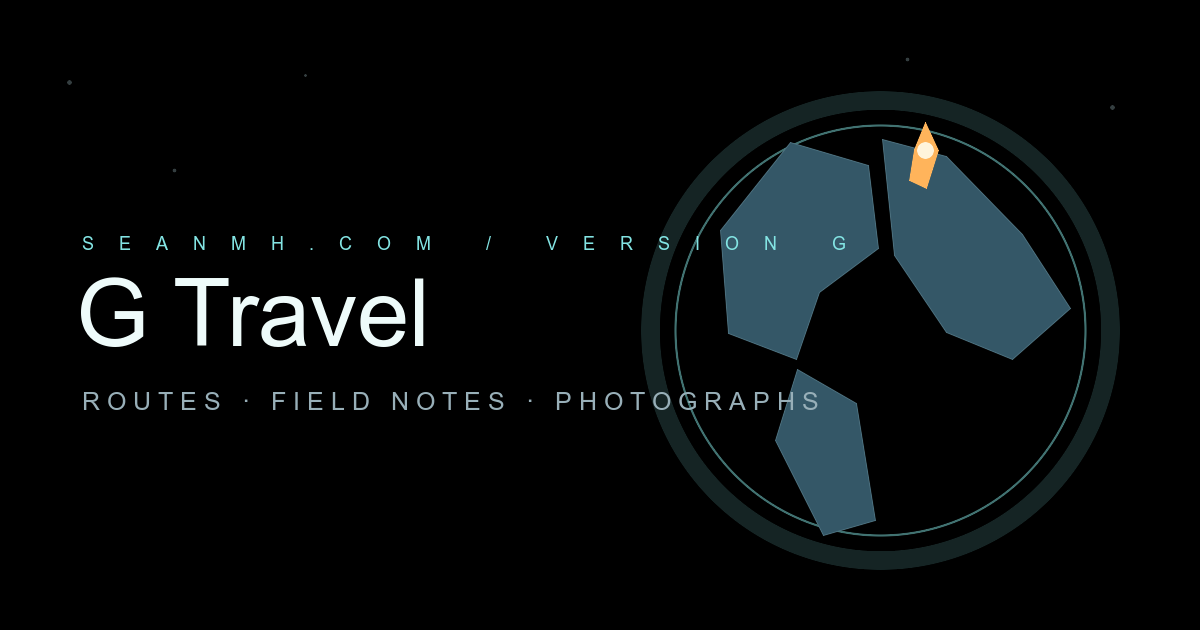
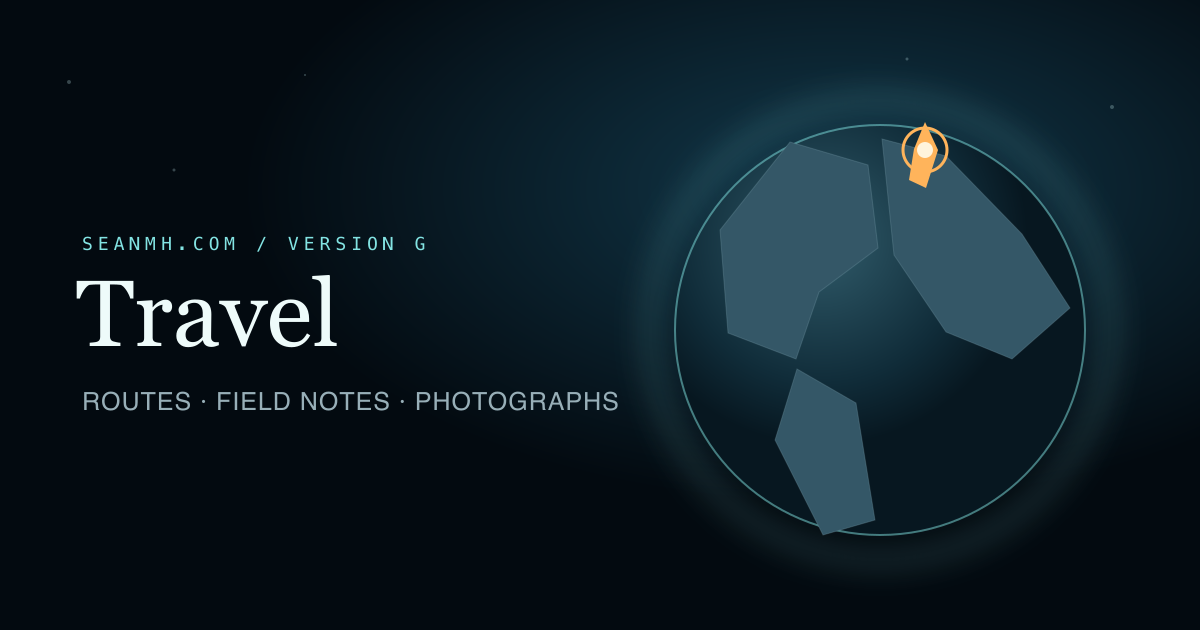
Drop the version letter from Travel's display name
Every other version names itself without its letter -- the header reads
"Blueprint", not "F Blueprint" -- and travel already carries the letter
on the line beneath the wordmark and in the social card's "seanmh.com /
version g". Repeating it in the name was redundant, so the brand, page
titles, and social card now read "Travel".

The g-travel slug is untouched: the portfolio-version meta tag, the
switcher prop, the transition type, and the branch keep it, because
there it identifies the version rather than addressing the reader.

Regenerating the social card also restores the artwork the SVG always
described. Whatever produced the committed PNG dropped its gradients and
glow and fell back to sans-serif; rendering from the source brings back
the radial background, the lit globe, and the serif wordmark, at 8-bit
instead of a needless 16.

Claude-Session: https://claude.ai/code/session_01VbBty6zK2wytQciqhb6Nkt

diff --git a/README.md b/README.md
@@ -1,4 +1,4 @@
-# G Travel
+# Version G — Travel
 
 Version G of seanmh.com: a static Astro travel journal with a progressively
 enhanced Three.js globe. The public canonical namespace is
